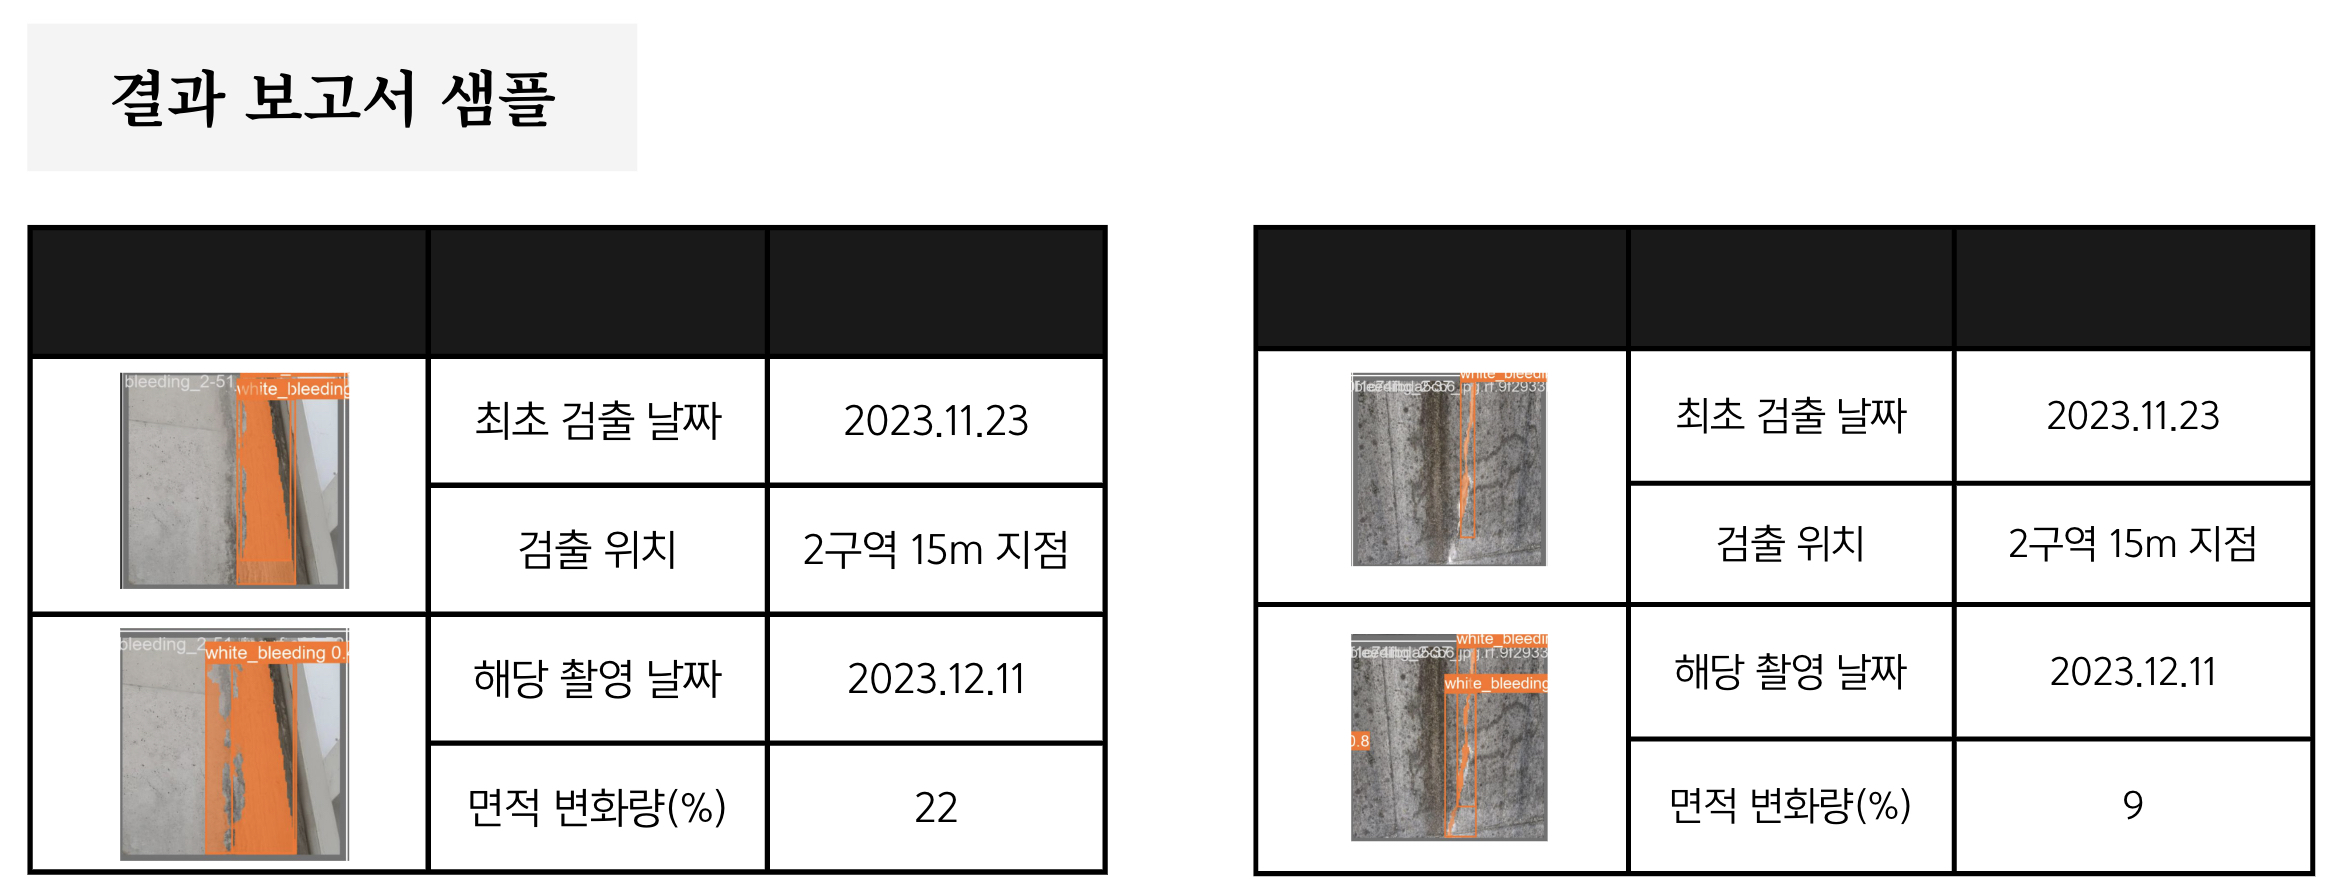
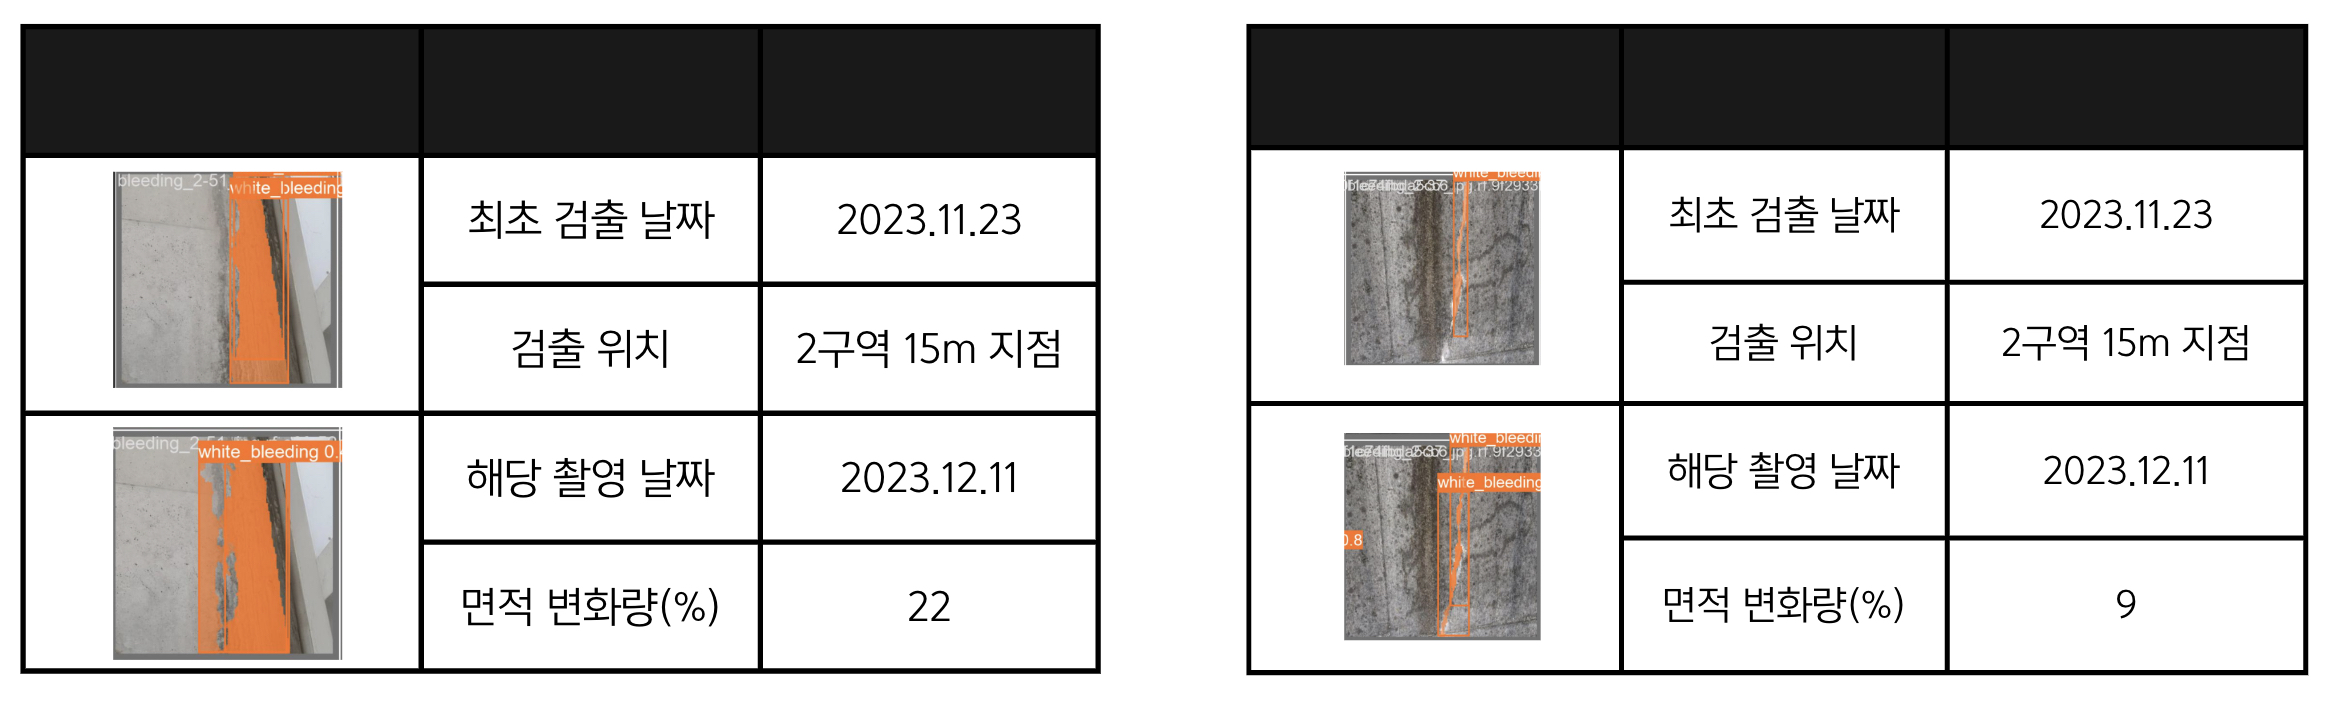
add image

diff --git a/README.md b/README.md
@@ -78,10 +78,13 @@ yolo-v8 [best.pt](https://drive.google.com/file/d/18uMUQbhpCTUYfNQVFi3A95VYFdwdd
 
 
 ### 7. 최종 결과물 예시
+<img src="https://github.com/jeongjae96/soteria8-crack-detection/blob/main/images/report_sample.jpg?raw=true"
+width="675px" height="350px">
 
 
 
-
+### 8. Further Experiment
+https://github.com/jeongjae96/soteria8-crack-detection/blob/main/images/further_experiment.jpg?raw=true
 
 
 <br>
